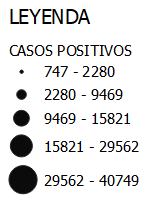
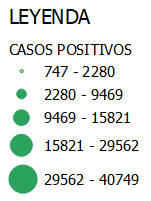
Actualización de cartogrtafía

diff --git a/map.js b/map.js
@@ -27,7 +27,6 @@ L.control.scale().addTo(myMap);
 
 // MAPAS
 
-var mapa1 = L.geoJSON(cuenca,{style:styleA,popup:popupA})
 var mapa3 = L.geoJSON(Mil_marzo,{style:styleC,popup:popupC})
 var mapa4 = L.geoJSON(Mil_abril,{style:styleD,popup:popupD})
 var mapa5 = L.geoJSON(tasa,{style:styleE,popup:popupE})
@@ -57,32 +56,6 @@ var mapa26 = L.geoJSON(puntos_2020,{pointToLayer: function (feature, latlng) {re
 
 
 
-
-
-// ESTILOS DEL MAPA A
-
-function getColorA(d) {
-    return d > 7300 ? '#800026' :
-           d > 7300 ? '#B00026' :
-           d > 2500 ? '#E31A1C' :
-           d > 2500?   '#FC4E2A' :
-           d > 500 ? '#FD8D3C' :
-           d > 500? '#FEB24C' :
-           d > 36 ? '#FED976' :
-                      '#FFEDA0';
-}
-
-
-function styleA(feature) {
-   return {
-       fillColor: getColorA(feature.properties.Casos_confi),
-       weight: 2,
-       opacity: 1,
-       color: 'red',
-       dashArray: '3',
-       fillOpacity: 0.7
-   };
-}
 
 
 
@@ -739,8 +712,8 @@ function style25(feature) {
 
 
 var MarkerOptions ={
-    fillColor: "#0b0b0b",
-    color: "#0b0b0b",
+    fillColor: "#2ca25f",
+    color: "#2ca25f",
     weight: 1,
     opacity: 1.5,
     fillOpacity: 0.5
@@ -792,8 +765,7 @@ function onLegendAdd(legend, imgSrc) {
     }
 }
 
-var legendA = createLegend();
-onLegendAdd(legendA, "img/Referencias2.png");
+
 
 
 var legendC = createLegend();
@@ -872,41 +844,8 @@ var legend26 = createLegend();
 onLegendAdd(legend26,"img/ref_casos_posi_20.png");
 
 
-//POPUP  DEL MAPA A
-
-
-function popupA (feature,layer){
-    /** 
-     * Popup que solo muestra el nombre del partido y la cantidad de casos, 
-     * para cuando se pasa el mouse por arriba. 
-    */
-
-
-    
- const contenido = `<b>${feature.properties.NOMBRE}</b>: ${feature.properties.Casos_confi} casos confirmados`
-
-      
-
-    layer.on('mouseover', function () {
-        this.bindPopup(contenido, { maxWidth: "auto" });
-        this.openPopup();
-    })
-
-    /**
-     * Popup que solo muestra el gráfico de casos del partido para cuando se
-     * hace click en el partido.
-    */
-
-    
-    const contenidoImg = `<img src="${feature.properties.IMAGENES}" style="width:800px;height:500px;">`
-    
-    layer.on('click', function () {
-        this.bindPopup(contenidoImg, { maxWidth: "auto" });
-        this.openPopup();
-    })
-}       
+ 
      
-
 
 
 // POPUP DEL MAPA C
@@ -1397,18 +1336,15 @@ var layerControl = L.control.layers.tree(
         {
             label: "Variables COVID-19",
             children: [
-                {
-                    label: "Casos activos (24/05/21)",
-                    layer: mapa1
-                },
+               
 
                 {
-                    label: "Tasa de contagios por cada 1000 hab.(24/05/21)",
+                    label: "Tasa de contagios-cada 100 mil hab.(24/05/21)",
                     layer: mapa5
                 },
                
                 {
-                    label: "Capa de puntos: Casos confirmados (24/05/20)",
+                    label: "Capa de puntos: Casos confirmados (24/08/20)",
                     layer: mapa26
                 },
     
@@ -1436,7 +1372,7 @@ var layerControl = L.control.layers.tree(
                     layer: mapa16
                 },
                 {
-                    label: "Proximidad a Ciudad autónoma de Bs. As. ",
+                    label: "Proximidad a Ciudad Autónoma de Bs. As. ",
                     layer: mapa14
                 },
                 {
@@ -1774,7 +1710,7 @@ $('#select-año').trigger("change");
 myMap.on('overlayadd', function (event) {
     var leyenda;
     switch (event.layer) {
-        case mapa1: leyenda = legendA; break;
+        
         case mapa5: leyenda = legendE; break;
         case mapa14: leyenda = legendN; break;
         case mapa15: leyenda = legendÑ; break;
@@ -1804,7 +1740,7 @@ myMap.on('overlayadd', function (event) {
 myMap.on('overlayremove', function (event) {
     var leyenda;
     switch (event.layer) {
-        case mapa1: leyenda = legendA; break;
+        
         case mapa5: leyenda = legendE; break;
         case mapa14: leyenda = legendN; break;
         case mapa15: leyenda = legendÑ; break;

diff --git a/style.css b/style.css
@@ -42,7 +42,8 @@ footer {
 }
 
 .simbolo-Geoportal{
-  height: 90px;
+  margin-right: 50px;
+  height: 130px;
   float: right;
 }
 
